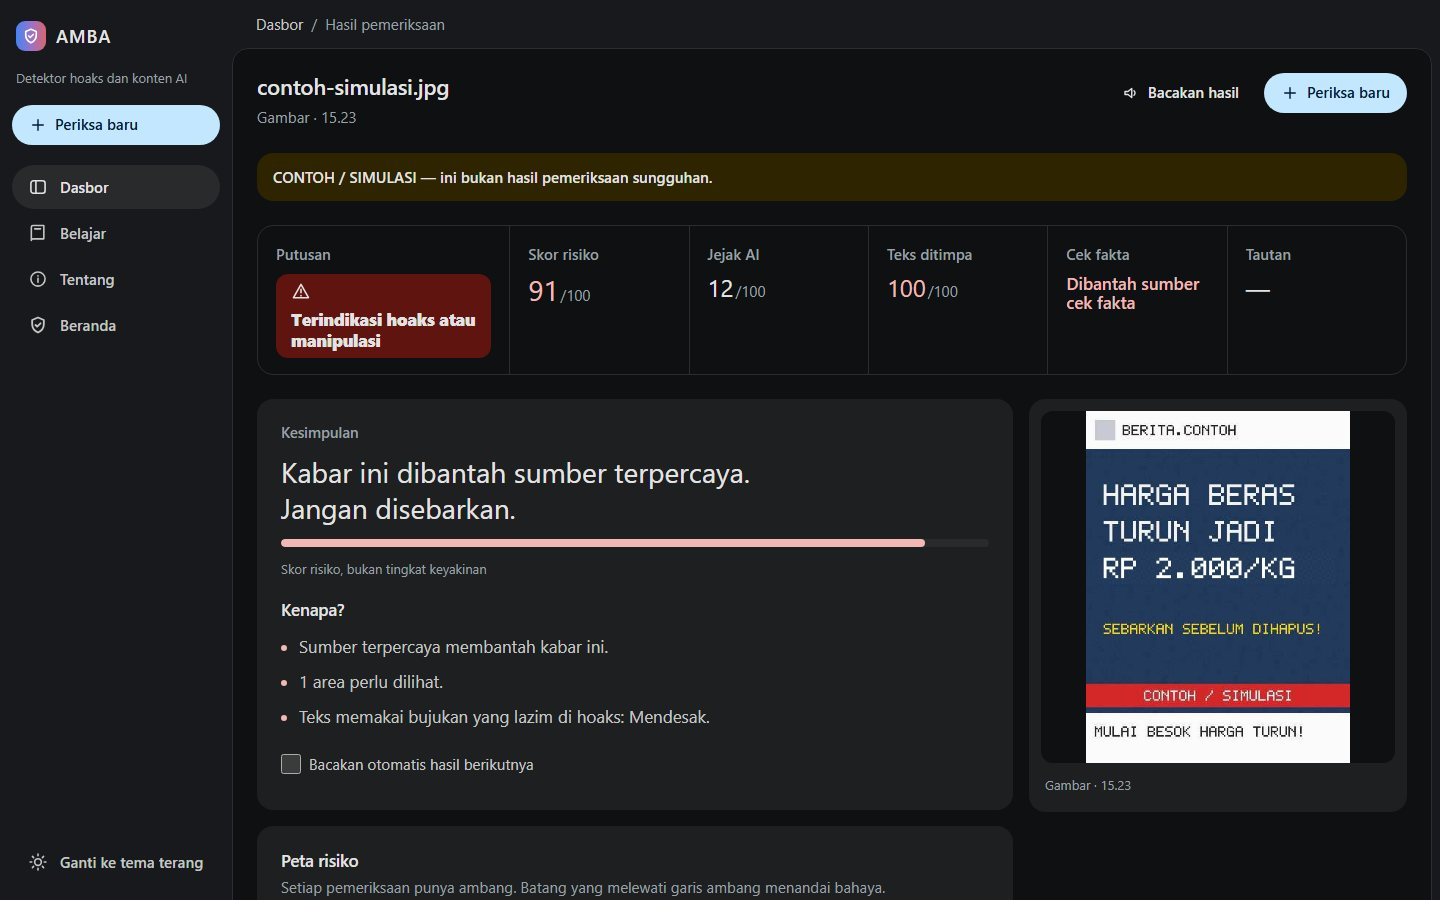
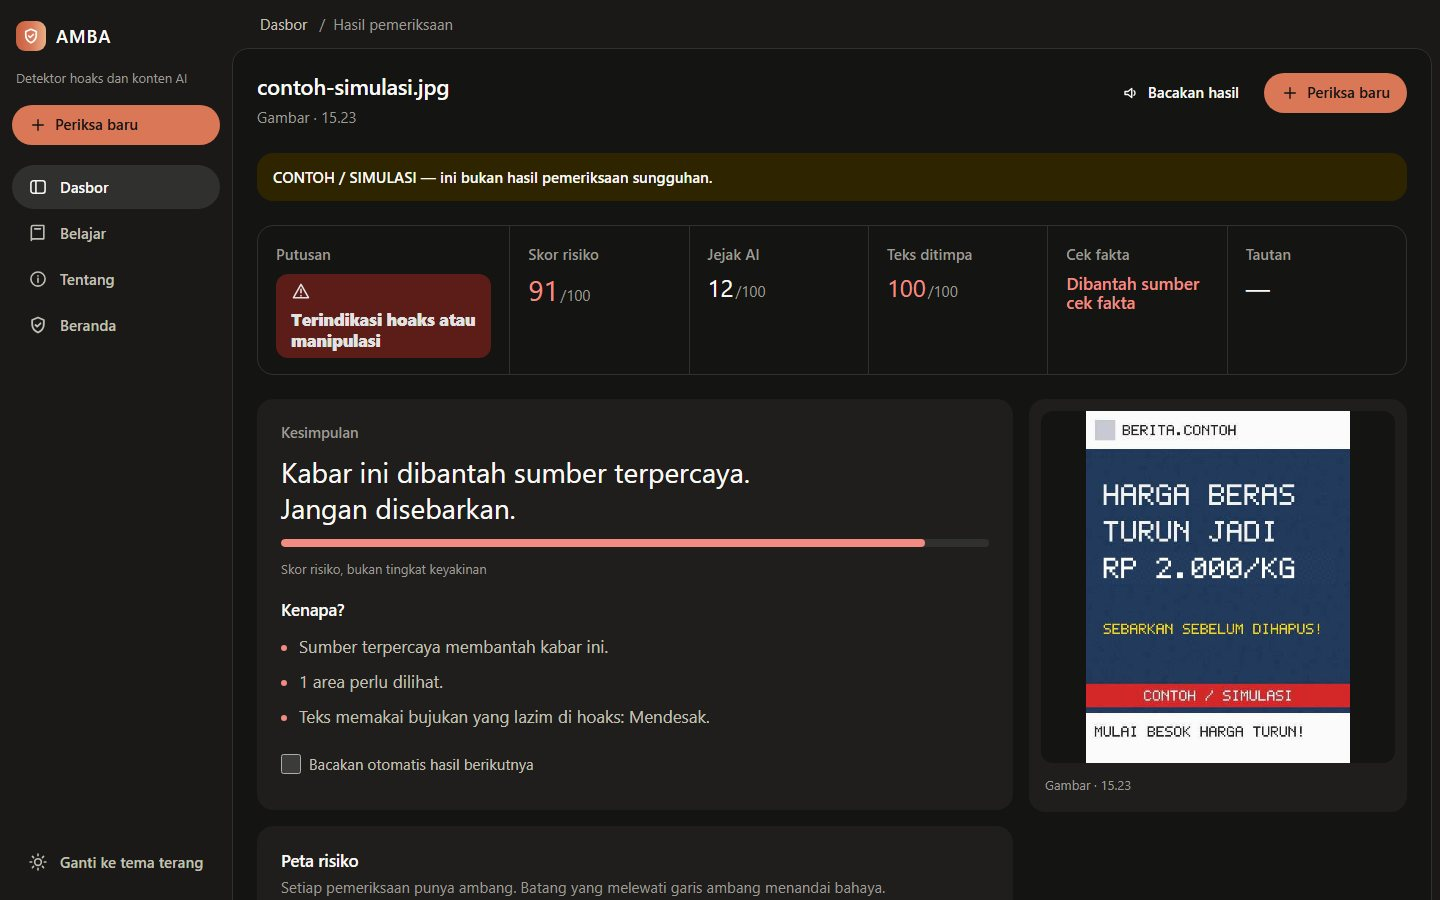
style(frontend): Claude colours, Gemini style kept
Sir, 10 Nov 2026 (seq 915): Claude's colours instead of Gemini's; the style (shapes, pills, prompt bar, Google Sans Flex, tonal surfaces, dashboard layout) stays. Values measured on claude.com: dark ground #141413, surfaces #1a1918/#1f1e1d/#262624/#30302e, text #faf9f5/#c2c0b6/#9c9a92; light ground #faf9f5, surfaces #f5f4ed/#f0eee6, text #141413/#5e5d59; clay #c6613f, orange #d97757. The accent pill is #d97757 with dark text on dark, #b4532f with white on light (AA); the risk map's ordinary bars are warm grey so orange never reads as danger. Contrast 106/106.

diff --git a/frontend/src/lib/styles/tokens.css b/frontend/src/lib/styles/tokens.css
@@ -1,56 +1,58 @@
 /*
- * AMBA design tokens in the style of the Gemini web app (Sir, 10 Nov 2026).
- * Values measured on gemini.google.com the same day: page #0f0f0f, side
- * rail #1f1f1f, prompt pill #1e1f20 (radius 32px), text #e3e3e3; light page
- * #faf9f9. Dark is the default theme (app.html sets data-theme="dark" before
- * the first paint) and light is the visitor's option. :root holds the light
- * values and html[data-theme='dark'] the dark ones, the shape
- * tools/check-contrast.mjs reads.
+ * AMBA design tokens: the Gemini web app's style (shapes, pills, prompt bar,
+ * Google Sans Flex, tonal surfaces) in Claude's colours (Sir, 10 Nov 2026,
+ * seq 915). Values measured on claude.com the same day: dark ground #141413,
+ * surfaces #1a1918 / #1f1e1d / #262624 / #30302e, text #faf9f5 / #c2c0b6 /
+ * #9c9a92; light ground #faf9f5, surfaces #f5f4ed / #f0eee6, text #141413 /
+ * #5e5d59; the clay button #c6613f and the logo orange #d97757. Dark is the
+ * default theme; light is the visitor's option. :root holds the light values
+ * and html[data-theme='dark'] the dark ones, as tools/check-contrast.mjs reads.
  *
  * Legacy names (--indigo-*, --safe, --coral, --glass-*, --panel-dark) stay as
- * roles so existing components keep working.
+ * roles: --indigo is now the clay accent, not a blue.
  */
 :root {
   color-scheme: light;
 
   /* ---- neutrals ---- */
-  --paper: #faf9f9;
+  --paper: #faf9f5;
   --white: #ffffff;
-  --card: #f0f4f9;
-  --surface-2: #e9eef6;
-  --rail-bg: #ffffff;
-  --ink: #1f1f1f;
-  --body-2: #444746;
-  --muted: #5e5e5e;
-  --ink-soft: #5f6368;
-  --border: #c4c7c5;
-  --border-strong: #747775;
-  --border-soft: #e3e6ea;
+  --card: #f5f4ed;
+  --surface-2: #f0eee6;
+  --rail-bg: #f5f4ed;
+  --ink: #141413;
+  --body-2: #3d3d3a;
+  --muted: #5e5d59;
+  --ink-soft: #5e5d59;
+  --border: #d9d6cc;
+  --border-strong: #87867f;
+  --border-soft: #e8e6dc;
 
   /* ---- the dashboard: a tinted L frame (sidebar + top bar) around the
    * work sheet, tinted blue-grey from the product's own blue ---- */
-  --frame: #eef2f8;
+  --frame: #f0eee6;
   --sheet: #ffffff;
-  --sheet-edge: #dfe4eb;
+  --sheet-edge: #e3e0d6;
 
   /* ---- the accent: a light-blue pill, blue text for links ---- */
-  --brand: #9dd2ff;
-  --brand-hover: #b5ddff;
-  --brand-deep: #7cc2ff;
-  --on-brand: #001d35;
-  --indigo: #0b57d0;
-  --indigo-soft: #d3e3fd;
-  --indigo-tint: #e8f0fe;
-  --indigo-text: #0b57d0;
+  --brand: #b4532f;
+  --brand-hover: #a34a29;
+  --brand-deep: #8f3f22;
+  --on-brand: #ffffff;
+  --indigo: #b4532f;
+  --indigo-soft: #f3e3da;
+  --indigo-tint: #f8eee8;
+  --indigo-text: #a8492a;
   --on-indigo-text: #ffffff;
 
   /* ---- the three-colour gradient of the greeting and the thinking ring ---- */
-  --grad-1: #4285f4;
-  --grad-2: #9b72cb;
-  --grad-3: #d96570;
+  --grad-1: #a8492a;
+  --grad-2: #c6613f;
+  --grad-3: #b9772f;
+  --data-1: #87867f;
   --grad: linear-gradient(90deg, var(--grad-1), var(--grad-2) 50%, var(--grad-3));
-  --glow-a: rgba(157, 210, 255, 0.55);
-  --glow-b: rgba(211, 227, 253, 0.6);
+  --glow-a: rgba(217, 119, 87, 0.22);
+  --glow-b: rgba(232, 176, 136, 0.28);
 
   /* ---- verdict roles: text colour, and a pale fill for the same state ---- */
   --ok: #146c2e;
@@ -63,8 +65,8 @@
   --yellow-tint: #fff8de;
   --on-fill: #1f1f1f;
 
-  --panel-dark: #1f1f1f;
-  --on-panel-dark: #e3e3e3;
+  --panel-dark: #1f1e1d;
+  --on-panel-dark: #faf9f5;
   --on-ink: var(--paper);
 
   /* ---- semantic aliases ---- */
@@ -76,11 +78,11 @@
   --accent: var(--indigo-text);
   --accent-2: var(--indigo-text);
   --selected-bg: var(--indigo-soft);
-  --hover-overlay: #eef1f5;
-  --active-overlay: #e2e7ee;
+  --hover-overlay: #f0eee6;
+  --active-overlay: #e8e6dc;
   --hero-glow: transparent;
   --field-bg: #ffffff;
-  --focus: #0b57d0;
+  --focus: #b4532f;
 
   /* ---- legacy glass roles: plain surfaces in this style ---- */
   --glass-bg: var(--card);
@@ -185,53 +187,56 @@
 
 html[data-theme='dark'] {
   color-scheme: dark;
-  --paper: #0f0f0f;
-  --white: #1e1f20;
-  --card: #1e1f20;
-  --surface-2: #282a2c;
-  --rail-bg: #1f1f1f;
-  --ink: #e3e3e3;
-  --body-2: #c4c7c5;
-  --muted: #9aa0a6;
-  --ink-soft: #8e918f;
-  --border: #444746;
-  --border-strong: #8e918f;
-  --border-soft: #2a2c30;
+  --grad-1: #c6613f;
+  --grad-2: #d97757;
+  --grad-3: #e8b088;
+  --paper: #141413;
+  --white: #262624;
+  --card: #1f1e1d;
+  --surface-2: #30302e;
+  --rail-bg: #1a1918;
+  --ink: #faf9f5;
+  --body-2: #c2c0b6;
+  --muted: #9c9a92;
+  --ink-soft: #a3a198;
+  --border: #3d3d3a;
+  --border-strong: #87867f;
+  --border-soft: #30302e;
 
-  --frame: #17191c;
-  --sheet: #0f1011;
-  --sheet-edge: #2a2d32;
+  --frame: #1a1918;
+  --sheet: #141413;
+  --sheet-edge: #30302e;
 
-  --brand: #c2e7ff;
-  --brand-hover: #d6efff;
-  --brand-deep: #a8dcff;
-  --on-brand: #001d35;
-  --indigo: #a8c7fa;
-  --indigo-soft: #1f3760;
-  --indigo-tint: #172a46;
-  --indigo-text: #a8c7fa;
-  --on-indigo-text: #062e6f;
+  --brand: #d97757;
+  --brand-hover: #e08a6d;
+  --brand-deep: #c6613f;
+  --on-brand: #141413;
+  --indigo: #d97757;
+  --indigo-soft: #3b2a22;
+  --indigo-tint: #2b201b;
+  --indigo-text: #e8957a;
+  --on-indigo-text: #141413;
 
-  --glow-a: rgba(31, 59, 155, 0.5);
-  --glow-b: rgba(20, 40, 110, 0.4);
+  --glow-a: rgba(217, 119, 87, 0.28);
+  --glow-b: rgba(198, 97, 63, 0.22);
 
   --ok: #6dd58c;
   --warn: #fdd663;
-  --err: #f2b8b5;
+  --err: #f28b82;
   --safe: #0f3a1f;
   --yellow: #3d3200;
-  --coral: #601410;
-  --coral-tint: #3b0d0b;
+  --coral: #5c1d18;
+  --coral-tint: #33140f;
   --yellow-tint: #2e2500;
   --on-fill: #e3e3e3;
 
-  --panel-dark: #1e1f20;
-  --on-panel-dark: #e3e3e3;
+  --panel-dark: #1f1e1d;
+  --on-panel-dark: #faf9f5;
 
-  --hover-overlay: #2a2b2d;
-  --active-overlay: #333537;
-  --field-bg: #1e1f20;
-  --focus: #a8c7fa;
+  --hover-overlay: #262624;
+  --active-overlay: #30302e;
+  --field-bg: #262624;
+  --focus: #d97757;
 
   --glass-shadow: 0 1px 2px rgba(0, 0, 0, 0.4);
 

diff --git a/frontend/src/app.html b/frontend/src/app.html
@@ -4,7 +4,7 @@
     <meta charset="utf-8" />
     <meta name="viewport" content="width=device-width, initial-scale=1" />
     <meta name="color-scheme" content="dark light" />
-    <meta name="theme-color" content="#0f0f0f" />
+    <meta name="theme-color" content="#141413" />
     <link rel="icon" href="%sveltekit.assets%/favicon.svg" />
     <link rel="manifest" href="%sveltekit.assets%/manifest.webmanifest" />
     <link rel="apple-touch-icon" href="%sveltekit.assets%/icons/apple-touch-icon.png" />
@@ -13,7 +13,7 @@
          returning visitor never sees the page restyle (and the first render
          is not followed by a full-document style recalculation). Its CSP
          hash is computed from this file in vite.config.ts. -->
-    <script>(function(){try{var d=document.documentElement,s=localStorage,t=s.getItem('amba-theme')==='light'?'light':'dark';d.dataset.theme=t;var m=document.querySelector('meta[name=theme-color]');if(m)m.setAttribute('content',t==='dark'?'#0f0f0f':'#faf9f9')}catch(e){}})();</script>
+    <script>(function(){try{var d=document.documentElement,s=localStorage,t=s.getItem('amba-theme')==='light'?'light':'dark';d.dataset.theme=t;var m=document.querySelector('meta[name=theme-color]');if(m)m.setAttribute('content',t==='dark'?'#141413':'#faf9f5')}catch(e){}})();</script>
     %sveltekit.head%
   </head>
   <body data-sveltekit-preload-data="hover">

diff --git a/frontend/src/routes/+page.svelte b/frontend/src/routes/+page.svelte
@@ -83,11 +83,11 @@
   <svg class="wave" viewBox="0 0 1440 420" preserveAspectRatio="none" aria-hidden="true" focusable="false">
     <defs>
       <linearGradient id="wg" x1="0" x2="1" y1="0" y2="0">
-        <stop offset="0" stop-color="#4285f4" stop-opacity="0" />
-        <stop offset="0.25" stop-color="#4285f4" />
-        <stop offset="0.55" stop-color="#9b72cb" />
-        <stop offset="0.8" stop-color="#d96570" />
-        <stop offset="1" stop-color="#d96570" stop-opacity="0" />
+        <stop offset="0" stop-color="#c6613f" stop-opacity="0" />
+        <stop offset="0.25" stop-color="#c6613f" />
+        <stop offset="0.55" stop-color="#d97757" />
+        <stop offset="0.8" stop-color="#e8b088" />
+        <stop offset="1" stop-color="#e8b088" stop-opacity="0" />
       </linearGradient>
     </defs>
     <g class="wave-glow">
@@ -391,7 +391,7 @@
     right: -10%;
     top: 50%;
     height: 2px;
-    background: linear-gradient(90deg, transparent, var(--grad-1) 20%, #a8c7fa 50%, var(--grad-2) 80%, transparent);
+    background: linear-gradient(90deg, transparent, var(--grad-1) 20%, #f0c4ae 50%, var(--grad-2) 80%, transparent);
     box-shadow: 0 0 24px 6px color-mix(in srgb, var(--grad-1) 45%, transparent);
     pointer-events: none;
   }

diff --git a/frontend/src/lib/components/ui/ThemeSwitch.svelte b/frontend/src/lib/components/ui/ThemeSwitch.svelte
@@ -21,7 +21,7 @@
   function choose(next: Theme) {
     theme = next;
     document.documentElement.dataset.theme = next;
-    document.querySelector('meta[name="theme-color"]')?.setAttribute('content', next === 'dark' ? '#0f0f0f' : '#faf9f9');
+    document.querySelector('meta[name="theme-color"]')?.setAttribute('content', next === 'dark' ? '#141413' : '#faf9f5');
     try {
       if (next === 'dark') localStorage.removeItem(KEY);
       else localStorage.setItem(KEY, next);

diff --git a/frontend/src/lib/components/hasil/RiskMap.svelte b/frontend/src/lib/components/hasil/RiskMap.svelte
@@ -98,7 +98,7 @@
     position: absolute;
     inset: 0 auto 0 0;
     border-radius: inherit;
-    background: var(--indigo);
+    background: var(--data-1);
     transform-origin: left center;
   }
   .over .fill { background: var(--err); }
